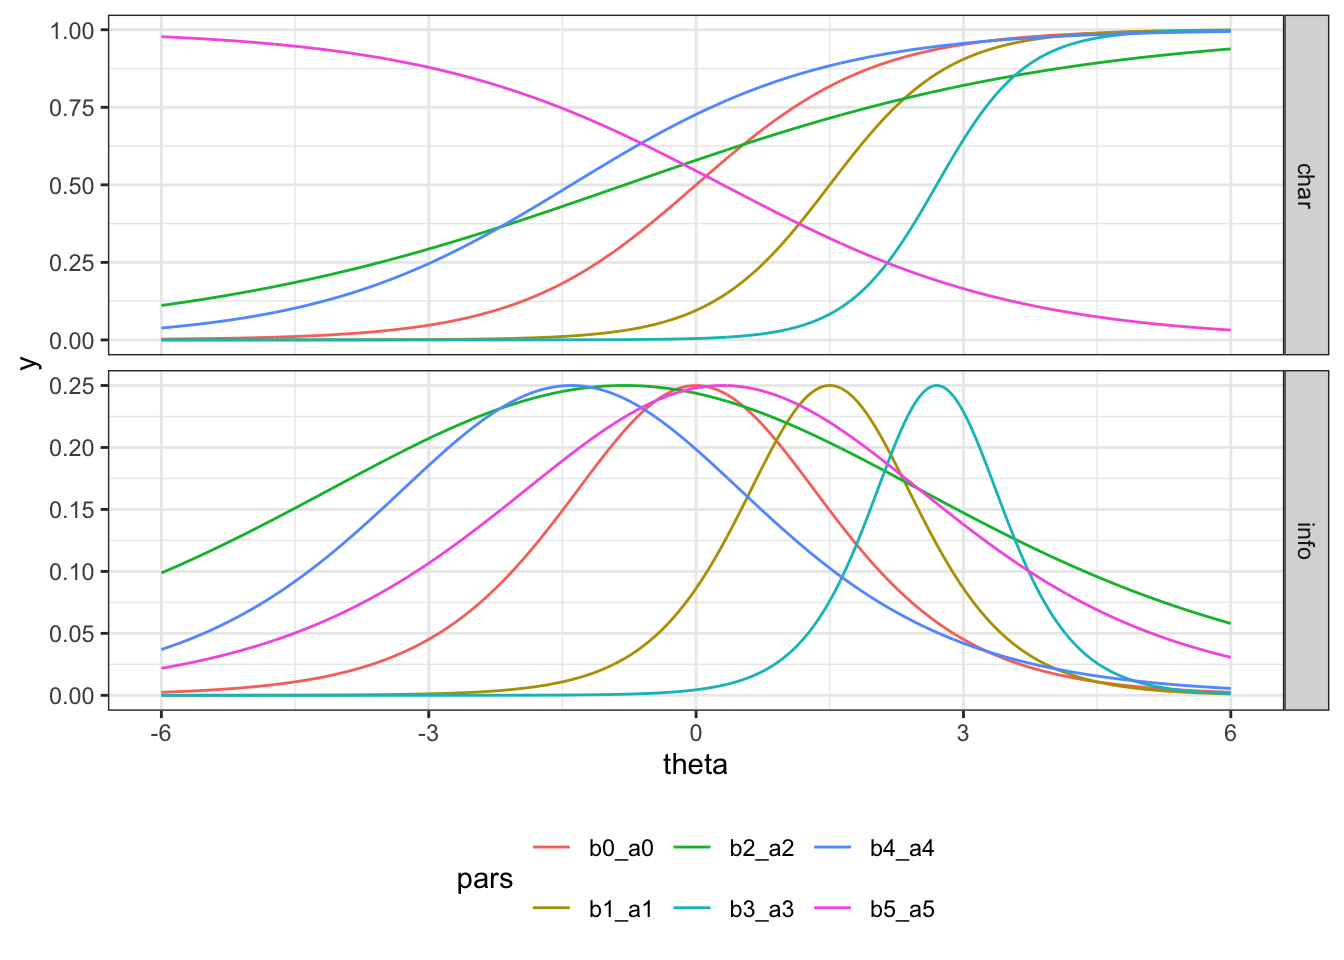
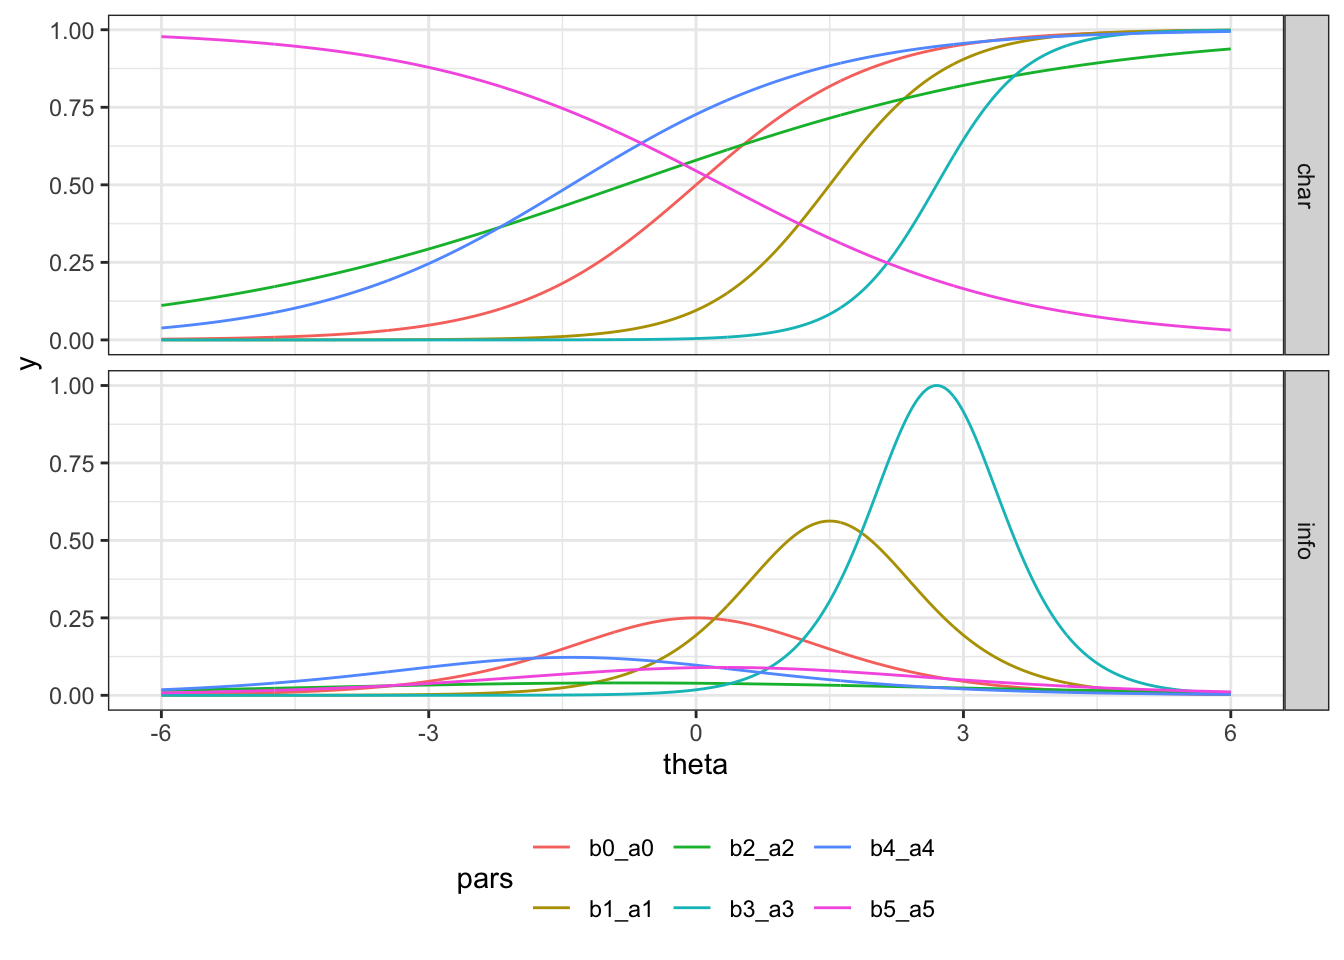
fix info curves in irt

diff --git a/book/_book/measures-irt.html b/book/_book/measures-irt.html
@@ -1086,7 +1086,12 @@ y = \frac{e^x}{1 + e^x}
 <section id="measures-irt-info-curves" class="level2" data-number="19.3">
 <h2 data-number="19.3" class="anchored" data-anchor-id="measures-irt-info-curves"><span class="header-section-number">19.3</span> Информативность заданий</h2>
 <p><span class="math display">\[
-I_i(\theta) = \mathbb{P}_i (\theta) \cdot (1 \ \mathbb{P}_i(\theta))
+I_i(\theta \mid b_i) = \mathbb{P}_i (\theta \mid b_i) \cdot (1 - \mathbb{P}_i(\theta \mid b_i))
+\]</span></p>
+<p><span class="math display">\[
+I_i(\theta \mid b_i, a_i) = a_i^2 \mathbb{P}_i (\theta \mid b_i, a_i) \cdot (1 - \mathbb{P}_i(\theta \mid b_i, a_i))
+\]</span> <span class="math display">\[
+I_i(\theta \mid b_i, a_i, c_i) = a_i^2 \frac{(\mathbb{P}_i (\theta\mid b_i, a_i, c_i) - c_i)^2}{(1 - c_i)^2} \cdot \frac{1 - \mathbb{P}_i(\theta \mid b_i, a_i, c_i)}{\mathbb{P}_i(\theta \mid b_i, a_i, c_i)}
 \]</span></p>
 <div class="cell">
 <div class="cell-output-display">
